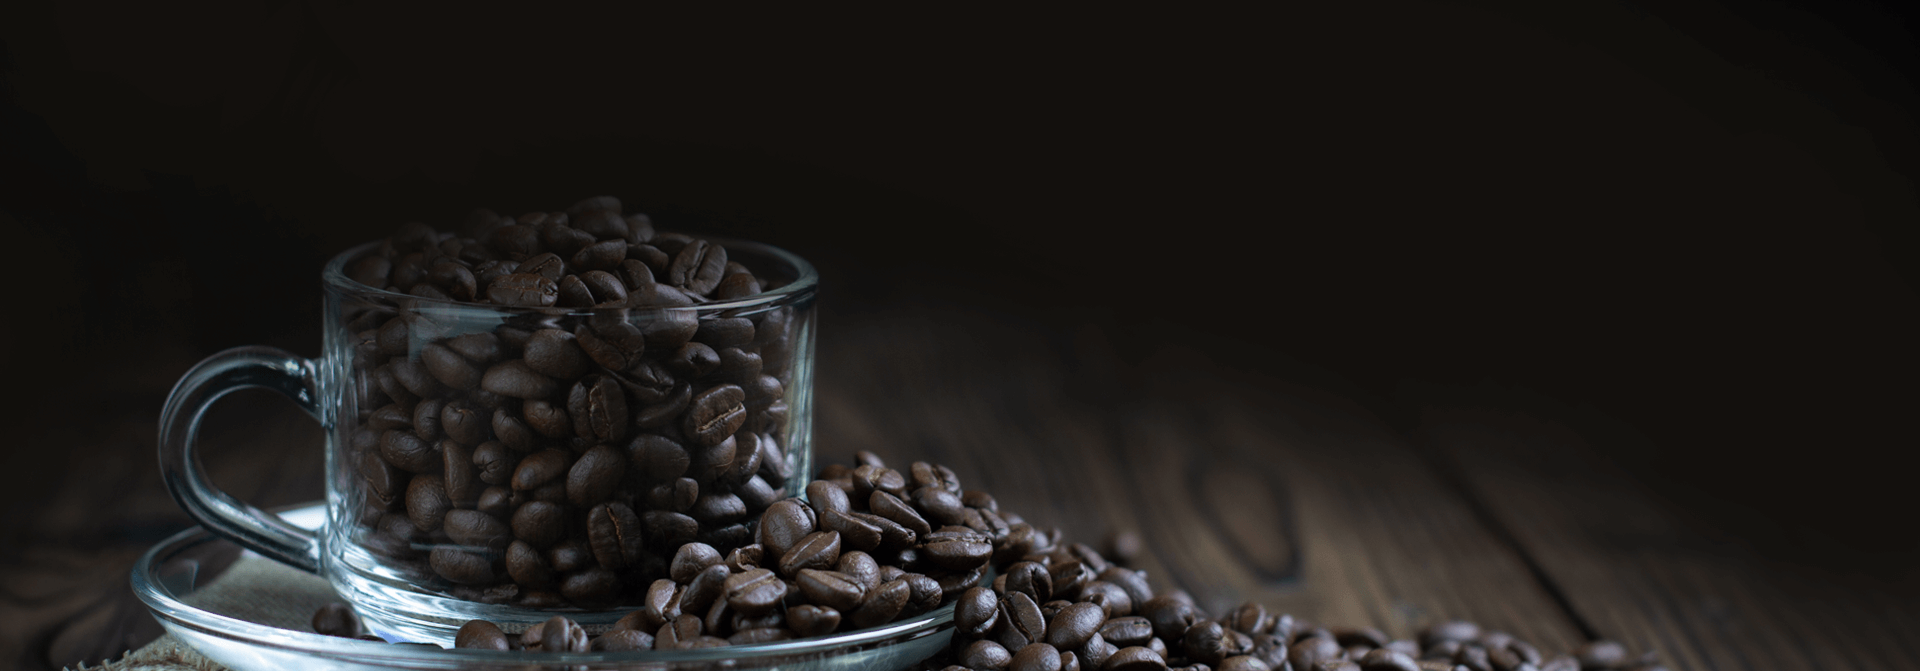
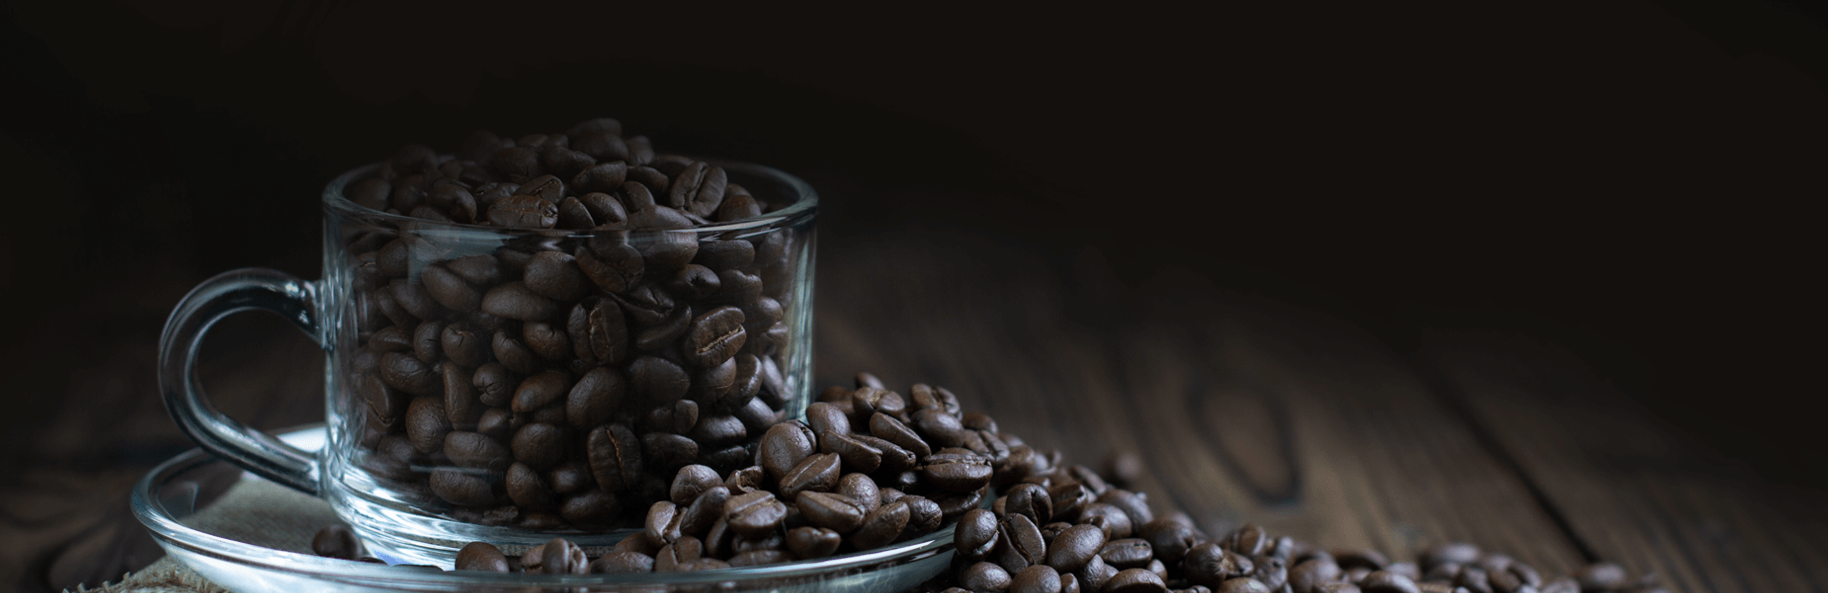
Designed Popular Products section

Changed region(s): [[0.0312, 0.2428, 0.9354, 1.0]]

diff --git a/src/components/PopularProducts/PopularProducts.jsx b/src/components/PopularProducts/PopularProducts.jsx
@@ -1,9 +1,14 @@
 import { useEffect, useState } from "react";
 import { GiCoffeeCup } from "react-icons/gi";
 import CoffeeCard from "./CoffeeCard";
+import bgCup from "../../assets/BgCup.png";
+import bgHouse from "../../assets/bgHouse.png";
 
 const PopularProducts = () => {
   const [allCoffee, setAllCoffee] = useState([]);
+  const [showAll, setShowAll] = useState(false);
+
+  const displayedCoffees = showAll ? allCoffee : allCoffee.slice(0, 6);
 
   useEffect(() => {
     fetch("http://localhost:5000/coffee")
@@ -14,25 +19,38 @@ const PopularProducts = () => {
   }, []);
 
   return (
-    <div className="mb-20">
+    <div className="mb-20 relative">
+      <div className="absolute top-0 left-0">
+        <img className="h-64 object-fill" src={bgCup} alt="" />
+      </div>
+      <div className="absolute top-40 right-0">
+        <img className="h-[700px] w-[250px] object-fill" src={bgHouse} alt="" />
+      </div>
       <div>
         <p className="text-center text-coffee/65">--- Sip & Savor ---</p>
         <h4 className="text-3xl font-extrabold font-dancing text-coffee text-center">
           Our Popular Products
         </h4>
-        <div className="flex justify-center items-center gap-4 mt-5">
+        <div className="text-center mt-5">
           <button className="btn bg-coffee-brown text-coffee text-shadow-lg/30 text-shadow-coffee px-4 py-1 border-coffee/65 hover:bg-transparent">
             <span> Add Coffee</span> <GiCoffeeCup className="w-6 h-6" />
-          </button>
-          <button className="btn bg-coffee-brown text-coffee text-shadow-lg/30 text-shadow-coffee px-4 py-1 border-coffee/65 hover:bg-transparent">
-            See All Collection
           </button>
         </div>
       </div>
       <div className="mt-14 max-w-9/12 mx-auto  grid grid-cols-1 lg:grid-cols-2 gap-5">
-        {allCoffee.map((coffee) => (
+        {displayedCoffees.map((coffee) => (
           <CoffeeCard key={coffee._id} coffee={coffee}></CoffeeCard>
         ))}
+      </div>
+
+      {/* Toggle Button */}
+      <div className="text-center mt-10 z-10">
+        <button
+          onClick={() => setShowAll(!showAll)}
+          className="btn bg-coffee-brown text-coffee text-shadow-lg/30 text-shadow-coffee px-4 py-1 border-coffee/65 hover:bg-transparent"
+        >
+          {showAll ? "Show Less" : "View All"}
+        </button>
       </div>
     </div>
   );

diff --git a/src/components/PopularProducts/CoffeeCard.jsx b/src/components/PopularProducts/CoffeeCard.jsx
@@ -1,17 +1,18 @@
-import { FaEye, FaEdit, FaTrash } from "react-icons/fa";
+import { FaEye, FaTrash } from "react-icons/fa";
+import { MdEdit } from "react-icons/md";
 
 const CoffeeCard = ({ coffee }) => {
-  const { name, chef, price, photoURL } = coffee;
+  const { name, chef, price, photo } = coffee;
 
   return (
     <div className="w-full">
-      <div className=" flex justify-center items-center gap-5 bg-gray-100 shadow-lg p-6 rounded-lg">
+      <div className=" flex justify-center items-center gap-5 bg-gray-100 shadow-lg px-6 py-8 rounded-lg">
         {/* Image Container */}
-        <div className="w-36 h-32">
+        <div className="w-36 h-36">
           <img
-            src={photoURL}
+            src={photo}
             alt={name}
-            className="w-full h-full object-cover"
+            className="w-full h-full object-cover rounded-md"
           />
         </div>
 
@@ -29,14 +30,14 @@ const CoffeeCard = ({ coffee }) => {
         </div>
 
         {/* Action Buttons */}
-        <div className="flex flex-col gap-2">
-          <button className="bg-[#d6b18a] text-white p-2 rounded">
+        <div className="flex flex-col gap-2 z-10">
+          <button className="bg-coffee-gray text-white p-2 rounded cursor-pointer">
             <FaEye />
           </button>
-          <button className="bg-gray-700 text-white p-2 rounded">
-            <FaEdit />
+          <button className="bg-[#3C393B] text-white p-2 rounded cursor-pointer">
+            <MdEdit />
           </button>
-          <button className="bg-red-500 text-white p-2 rounded">
+          <button className="bg-[#EA4744] text-white p-2 rounded cursor-pointer">
             <FaTrash />
           </button>
         </div>

diff --git a/src/components/Hero.jsx b/src/components/Hero.jsx
@@ -4,12 +4,12 @@ const Hero = () => {
   return (
     <div>
       <div
-        className="relative bg-cover h-[250px] lg:h-[535px] flex items-center"
+        className="relative bg-cover h-[250px] lg:h-[450px] flex items-center"
         style={{
           backgroundImage: `url(${bannerImg})`,
         }}
       >
-        <div className="absolute inset-0 bg-black/50"></div>
+        <div className="absolute inset-0 bg-black/70"></div>
 
         <div className="px-10 absolute lg:-right-0 text-white lg:max-w-1/2 lg:pr-10">
           <h2 className="text-2xl md:text-4xl font-dancing font-extrabold mb-4">
@@ -20,7 +20,7 @@ const Hero = () => {
             nostalgia back! Your companion of every moment. Enjoy the beautiful
             moments and make them memorable.
           </p>
-          <button className=" bg-coffee-brown border-coffee-brown text-lg text-black px-3 py-2 font-dancing font-bold rounded-sm hover:bg-transparent hover:border hover:text-white">
+          <button className=" bg-coffee-brown border-coffee-brown text-lg text-black px-4 py-2 font-dancing font-bold rounded-sm hover:bg-transparent hover:border hover:text-white">
             Learn More
           </button>
         </div>

diff --git a/src/Pages/AddCoffee.jsx b/src/Pages/AddCoffee.jsx
@@ -20,13 +20,13 @@ const AddCoffee = () => {
 
     const newCoffee = {
       name,
-      chefName: chef,
+      chef,
       supplier,
       taste,
       category,
       details,
       price,
-      photoURL: photo,
+      photo,
     };
     // console.log(newCoffee);
 
